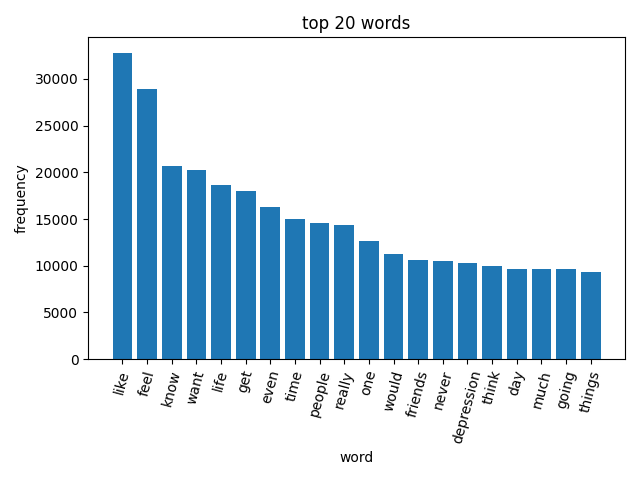
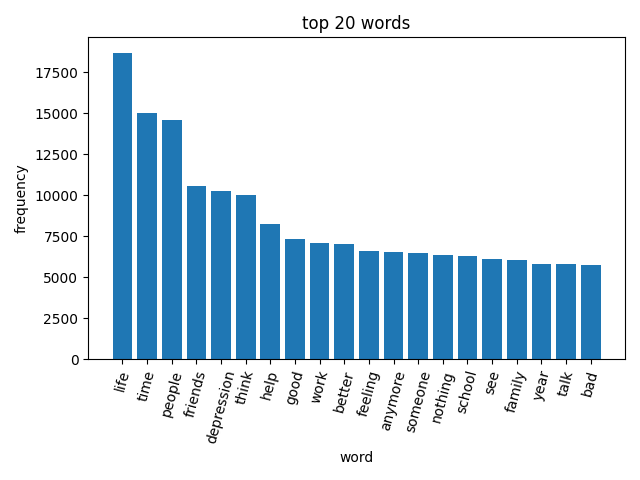
20words

diff --git a/example.py b/example.py
@@ -30,6 +30,10 @@ STOP=set(pd.Series(pd.read_csv(
     StringIO("word\n"+"\n".join([
         #credit:https://gist.github.com/sebleier/554280
         "i","me","my","myself","we","our","ours","ourselves","you","your","yours","yourself","yourselves","he","him","his","himself","she","her","hers","herself","it","its","itself","they","them","their","theirs","themselves","what","which","who","whom","this","that","these","those","am","is","are","was","were","be","been","being","have","has","had","having","do","does","did","doing","a","an","the","and","but","if","or","because","as","until","while","of","at","by","for","with","about","against","between","into","through","during","before","after","above","below","to","from","up","down","in","out","on","off","over","under","again","further","then","once","here","there","when","where","why","how","all","any","both","each","few","more","most","other","some","such","no","nor","not","only","own","same","so","than","too","very","s","t","can","will","just","don","should","now"
+        #some words that are in top20 but i think those were not helpful to research purpose so add them into stop words
+        ,"like","want","get","things","even","really","one","would","much","going","things"
+        ,"feel","know","never","day","years","anything","always","back","make","still","everything","something"
+        ,"could","way","every","got","anyone"
     ]#python list,contains frequently stop words
     )#把这个list拼成一个CSV格式的字符串。第一行是title ”word",后面每一行一个单词
     )#把string包装成object文件对象，让pd.read_csv(...)直接从内存中的字符串读取
